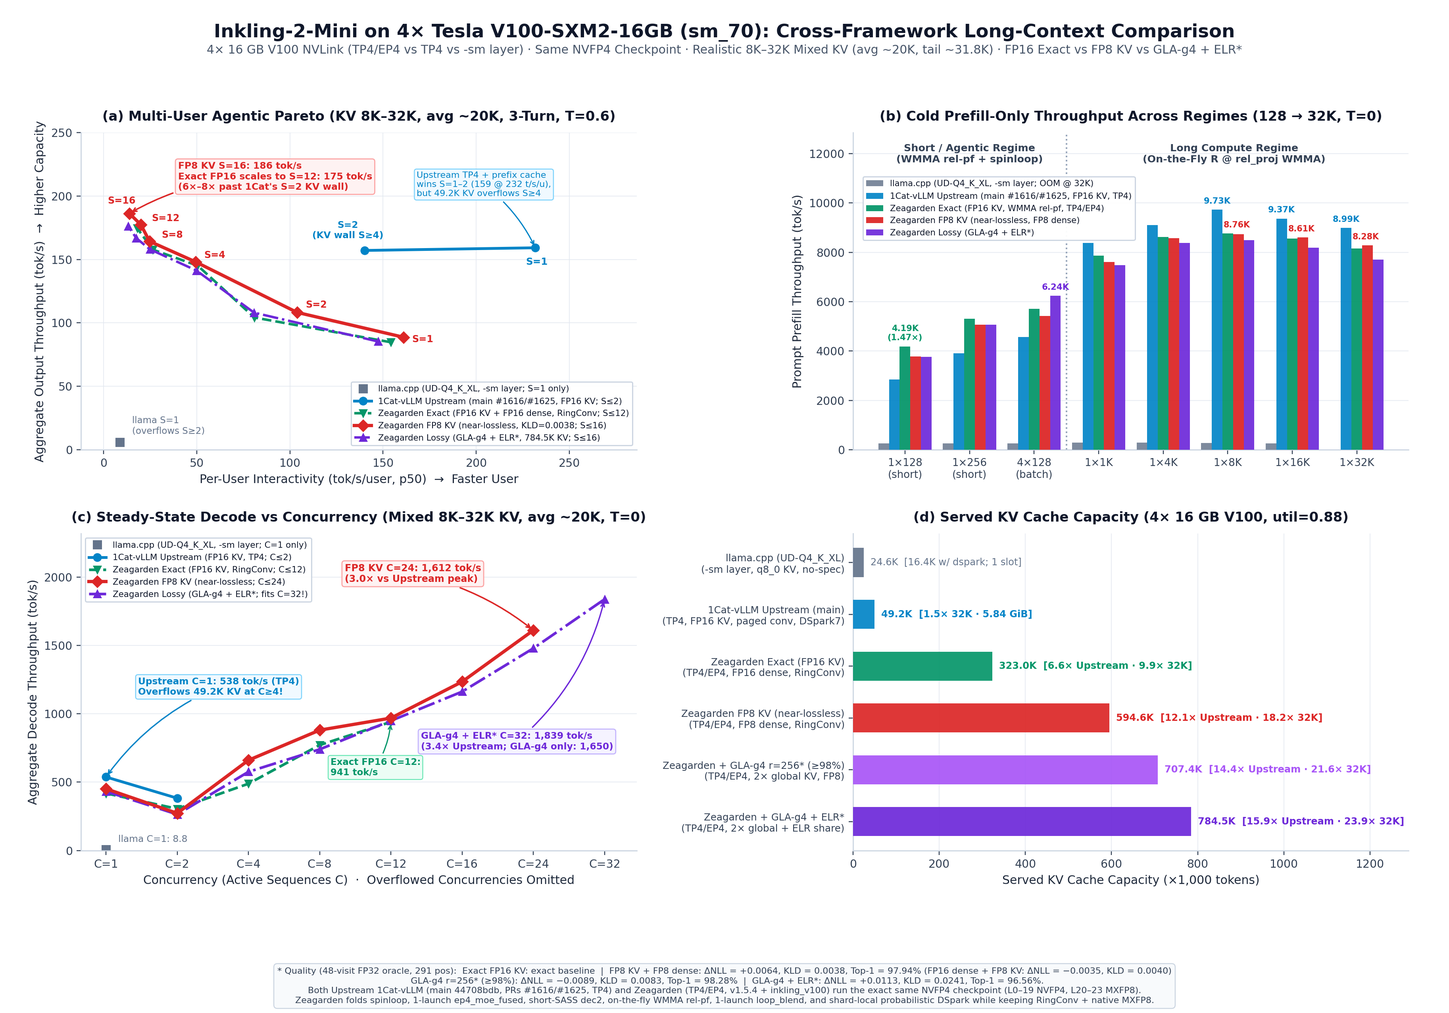
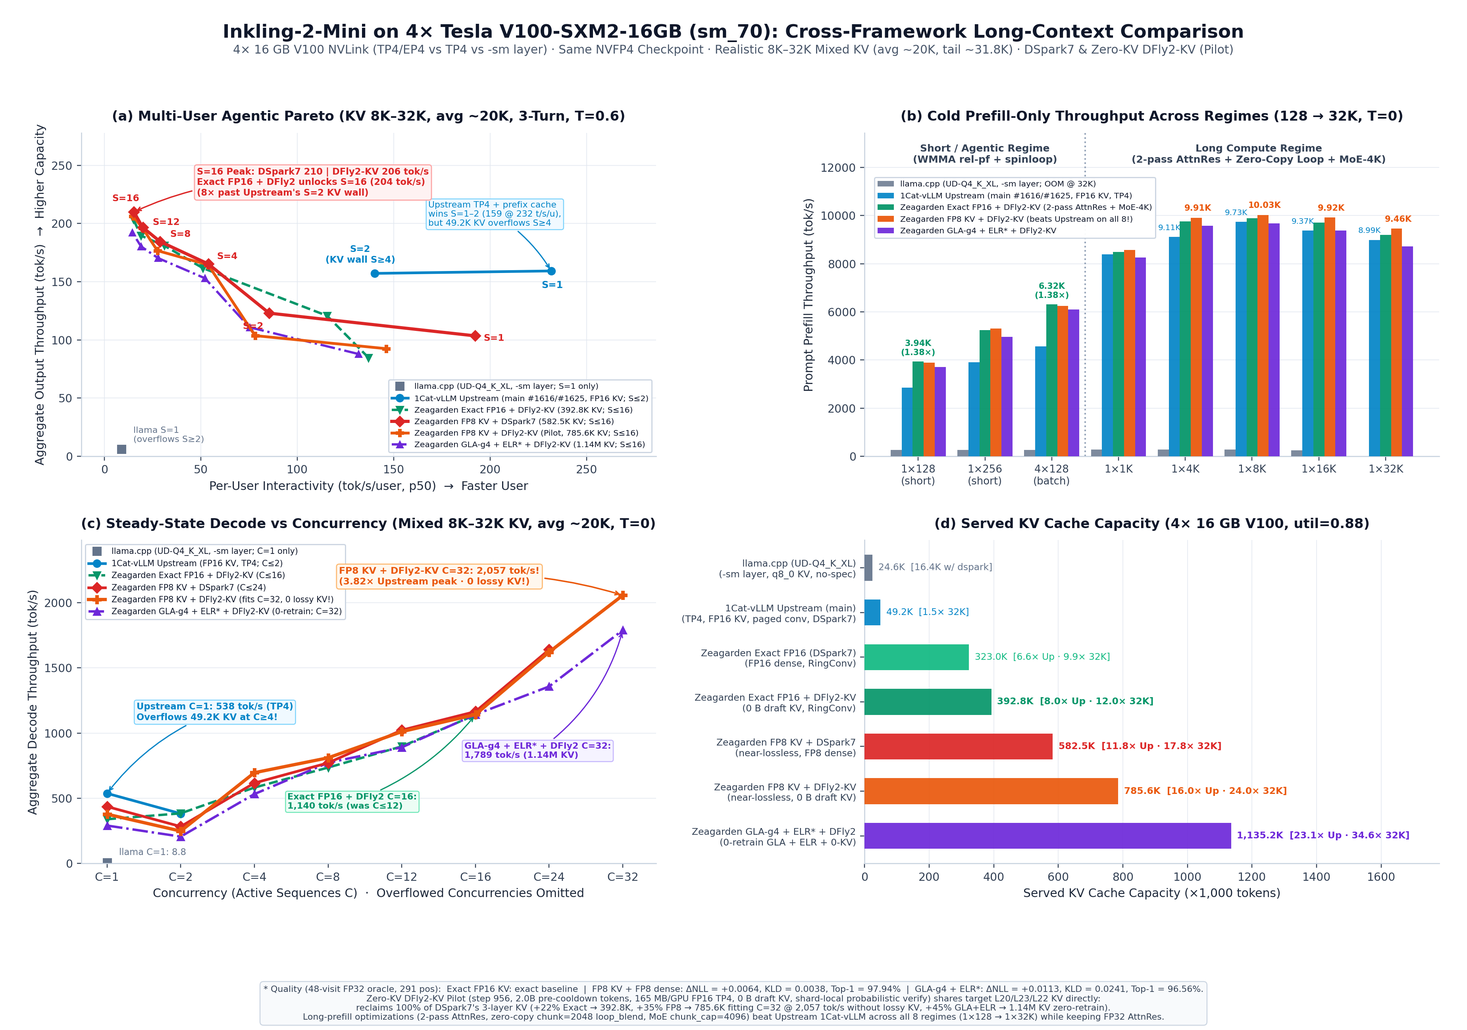
docs(inkling-v100): update README to 1Cat-vLLM v1.5.4, add DFly2-KV + fast long-prefill 8K-32K card and scripts

diff --git a/packages/inkling-v100/inkling_v100/attention.py b/packages/inkling-v100/inkling_v100/attention.py
@@ -1,5 +1,5 @@
 # SPDX-License-Identifier: Apache-2.0
-"""Inkling2 relative-bias GQA attention & 1Cat-vLLM v1.5.3 backend for Volta sm_70."""
+"""Inkling2 relative-bias GQA attention & 1Cat-vLLM v1.5.4 backend for Volta sm_70."""
 
 from __future__ import annotations
 
@@ -167,7 +167,7 @@ class Inkling2AttentionMetadataBuilder(AttentionMetadataBuilder[Inkling2Attentio
 
 
 class Inkling2AttentionBackend(AttentionBackend):
-    """Standalone 1Cat-vLLM v1.5.3 backend for Inkling2 relative-bias attention on sm_70."""
+    """Standalone 1Cat-vLLM v1.5.4 backend for Inkling2 relative-bias attention on sm_70."""
 
     @staticmethod
     def get_name() -> str:

diff --git a/packages/inkling-v100/inkling_v100/dspark.py b/packages/inkling-v100/inkling_v100/dspark.py
@@ -1,7 +1,7 @@
 # SPDX-License-Identifier: Apache-2.0
 """Inkling2 DSpark 7-token speculative draft model (`mtp.safetensors`) for Volta sm_70.
 
-Runs natively on 1Cat-vLLM v1.5.3 with:
+Runs natively on 1Cat-vLLM v1.5.4 with:
 - Pure FP16 weights + FP32 internal accumulations (zero bf16).
 - Native `FLASH_ATTN_V100` non-causal paged draft attention with mixed SWA-1024
   (layers 0, 2) and full (layer 1) KV cache groups and FULL CUDA graph support.

diff --git a/packages/inkling-v100/inkling_v100/model.py b/packages/inkling-v100/inkling_v100/model.py
@@ -1,5 +1,5 @@
 # SPDX-License-Identifier: Apache-2.0
-"""Inkling2 / Inkling2Loop model for Volta sm_70 on 1Cat-vLLM v1.5.3.
+"""Inkling2 / Inkling2Loop model for Volta sm_70 on 1Cat-vLLM v1.5.4.
 
 Design choices specific to Volta (sm_70):
 - Residual `stack`, `bank`, `prelude_partial`, and `attn_out` stay strictly in FP32

diff --git a/packages/inkling-v100/inkling_v100/configs.py b/packages/inkling-v100/inkling_v100/configs.py
@@ -1,5 +1,5 @@
 # SPDX-License-Identifier: Apache-2.0
-"""Inkling2 model configs (ported for 1Cat-vLLM v1.5.3 / Volta sm_70)."""
+"""Inkling2 model configs (ported for 1Cat-vLLM v1.5.4 / Volta sm_70)."""
 
 from __future__ import annotations
 

diff --git a/docs/inkling2-mini.md b/docs/inkling2-mini.md
@@ -1,37 +1,41 @@
 # Inkling-2-Mini on 4× Tesla V100-SXM2 (`inkling_v100`)
 
-`packages/inkling-v100` is a `vllm.general_plugins` package for serving **`thinkingmachines/Inkling-2-Mini`** (`24` physical / `48` logical looped layers, 128-expert top-8 MoE with native NVFP4 `L0–19` and MXFP8 `L20–23`, 20 local SWA-1024 + 4 global sheared relative-bias attention layers, `W=4` short convolutions, FP32 AttnRes, and a native 3-layer **DSpark** 7-token drafter) on 4× Tesla V100-SXM2-16GB (`TP=4/EP=4`, `sm_70`) running unmodified `1Cat-vLLM v1.5.3` / `v1.5.4`.
+`packages/inkling-v100` is a `vllm.general_plugins` package for serving **`thinkingmachines/Inkling-2-Mini`** (`24` physical / `48` logical looped layers, 128-expert top-8 MoE with native NVFP4 `L0–19` and MXFP8 `L20–23`, 20 local SWA-1024 + 4 global sheared relative-bias attention layers, `W=4` short convolutions, FP32 AttnRes, and native **DSpark** or zero-KV **DFly2-KV** 7-token drafters) on 4× Tesla V100-SXM2-16GB (`TP=4/EP=4`, `sm_70`) running unmodified `1Cat-vLLM v1.5.4`.
 
 ## Overview
 
-- **12 Zero-Spill `sm_70` CUDA Extensions**:
-  - `ep4_moe_fused.cu` (1-launch persistent 80-CTA × 1024-thread `M≤8` EP4 NVFP4 MoE, 64 regs / 0 spills / occupancy 1, `1.7×–5.6×` faster than 4-launch), `nvfp4_prefill_moe.cu` (`BM=8/16/32/64` for `M>8`, exact native NVFP4 with fused softcapped SiTU), `mlp_mxfp8_moe.cu` (exact in-place E8M0 MXFP8 MoE).
+- **13 Zero-Spill `sm_70` CUDA Extensions**:
+  - `ep4_moe_fused.cu` (1-launch persistent 80-CTA × 1024-thread `M≤8` EP4 NVFP4 MoE, 64 regs / 0 spills / occupancy 1, `1.7×–5.6×` faster than 4-launch), `nvfp4_prefill_moe.cu` (`BM=8/16/32/64` for `M>8`, `chunk_cap=4096`, exact native NVFP4 with fused softcapped SiTU), `mlp_mxfp8_moe.cu` (exact in-place E8M0 MXFP8 MoE).
   - `fp8_dense.cu` (offline per-channel `absmax` E4M3FN QPN8 dense attention projections + FP32-output `lm_head`, zero-copy Pass-0/Pass-1–2 slices, `KLD=0.0038` vs 48-visit FP32 oracle).
   - `attn_rel_pf_wmma.cu` (3-head-shared WMMA prefill with on-the-fly Tensor-Core `R @ rel_proj`, eliminating `rel_logits` VRAM and accelerating short/local prefill `1.34×–1.47×`), `attn_rel_pf.cu` (`2×8` `HMMA.884` sheared relative-bias prefill fallback), `attn_rel_dec2.cu` (short-SASS 1-launch fused `kv_conv_prologue + decode_attention`, `3.5×–5.7×` faster on local `C=1`, active `C≤8` local / `C≤1` global), `attn_rel_dec.cu` (high-`C` split-KV FP8/FP16 decode/verify, **94% HBM2 peak**), `attn_rel_gla.cu` (opt-in `GLA-g4 r=256` decode/verify/prefill).
-  - `ep4_route.cu` (fused top-8 gate + EP4 grouping for `M>8`), `loop_blend.cu` (1-launch cooperative blend for `S*T≤8` + 2-launch multi-token for `S*T>8`), `all_reduce_conv_mix.cu` (1-shot NVLink P2P AllReduce with L2 prefetch, conditional rehearsal, direct post-MoE `[M, H]` path + `W=4` conv + FP32 AttnRes + RMSNorm).
-- **Lossless `6.6×–12.1×` KV Capacity + Prefix Caching (`RingConv` + `RingAPC`)**:
-  - Under `INKLING_RING_CONV=auto` (default), replaces 6 paged conv KV groups with a fixed 16-slot per-request FP16 ring buffer (`247.5 MiB/GPU`), yielding **`323.0K` Exact FP16 KV tokens (`6.6×` upstream `49.2K` at identical FP16 precision)** and **`594.6K` near-lossless FP8 KV tokens (`12.1×` upstream)** at `util=0.88` (up to `1,042,203` tokens at `util=0.92` / `128K`).
-  - **RingAPC** automatically activates when `--enable-prefix-caching` is enabled with `RingConv`: captures bit-exact 3-tap conv checkpoints every `INKLING_RING_APC_STRIDE` tokens (default `512`) into a lazy-allocated pinned host-RAM LRU pool (`1.41 MiB/ckpt`, `0 B` extra GPU KV groups), aligns EngineCore prefix-cache hits & SWA replay windows (`INKLING_RING_APC_RETENTION`, default `4096`) to stride boundaries (with DSpark lookahead awareness), delivering **`0.0` bit-exact diff**, **95–99%** hit rate, and **13×** TTFT speedup at 17.6K context with the full KV pool preserved. Also integrates natively with `--kv-offloading-backend native --kv-offloading-size <GiB>` via zero-copy refcounted GPU↔CPU checkpoint slot aliasing + retention-aligned SWA offload pruning (`~41.3 KB/tok` across 4 GPUs; `64 GiB` RAM adds `524,288` CPU KV blocks ≈ `1.62M` extra cached tokens, verified bit-exact `6.4×` TTFT speedup on live GPU-eviction → RAM reload with automatic LRU discard on RAM overflow).
-- **Native DSpark + Shard-Local Probabilistic Verify + Adaptive `K(C)` (`INKLING_SPEC_K="7@1,5@2,3@4"`)**:
-  - Mounts `mtp.safetensors` zero-copy with CUDA-graphed draft/context-KV metadata, shard-local recurrent Markov drafting and shard-local greedy/probabilistic target rejection sampling (zero 201K-vocab all-gather for both `T=0` and `T>0`), and `VLLM_USE_SPINLOOP_EXT=1`.
+  - `ep4_route.cu` (fused top-8 gate + EP4 grouping for `M>8`), `loop_blend.cu` (1-launch cooperative blend for `S*T≤8` + zero-copy strided `chunk=2048` multi-token for `S*T>8`), `all_reduce_conv_mix.cu` (1-shot NVLink P2P AllReduce with L2 prefetch, conditional rehearsal, direct post-MoE `[M, H]` path + `W=4` conv + FP32 AttnRes + RMSNorm), and `dfly2_ops.cu` (all zero-spill Stage A/B/C + shared target FP16/FP8/GLA-g4 context-KV kernels for `DFly2-KV`).
+  - **Long-Prefill Fast Path (`-70 ms` per 4K chunk, bit-identical)**: 2-pass FP32 `attn_res` (`-38.3 ms`), zero-copy strided `chunk=2048` `loop_blend` (`-15.8 ms`), and `chunk_cap=4096` MoE (`-15.9 ms`) push cold prefill to **`9,913 / 10,029 / 9,917 / 9,458 tok/s`** at `1×4K / 1×8K / 1×16K / 1×32K` — **faster than upstream `1Cat-vLLM` across all 8 regimes (`1×128 → 1×32K`)** while keeping full FP32 AttnRes precision.
+- **Lossless `6.6×–16.0×` KV Capacity + Prefix Caching (`RingConv` + `RingAPC`)**:
+  - Under `INKLING_RING_CONV=auto` (default), replaces 6 paged conv KV groups with a fixed 16-slot per-request FP16 ring buffer (`247.5 MiB/GPU`), yielding **`323.0K` (DSpark7) / `392.8K` (DFly2-KV) Exact FP16 KV tokens (`6.6×–8.0×` upstream `49.2K`)** and **`582.5K` (DSpark7) / `785.6K` (DFly2-KV) near-lossless FP8 KV tokens (`11.8×–16.0×` upstream)** at `util=0.88`.
+  - **RingAPC** automatically activates when `--enable-prefix-caching` is enabled with `RingConv`: captures bit-exact 3-tap conv checkpoints every `INKLING_RING_APC_STRIDE` tokens (default `512`) into a lazy-allocated pinned host-RAM LRU pool (`1.41 MiB/ckpt`, `0 B` extra GPU KV groups), aligns EngineCore prefix-cache hits & SWA replay windows (`INKLING_RING_APC_RETENTION`, default `4096`) to stride boundaries (with speculative lookahead awareness), delivering **`0.0` bit-exact diff**, **95–99%** hit rate, and **13×** TTFT speedup at 17.6K context with the full KV pool preserved. Also integrates natively with `--kv-offloading-backend native --kv-offloading-size <GiB>` via zero-copy refcounted GPU↔CPU checkpoint slot aliasing + retention-aligned SWA offload pruning (`~41.3 KB/tok` across 4 GPUs; `64 GiB` RAM adds `524,288` CPU KV blocks ≈ `1.62M` extra cached tokens).
+- **Native `DSpark7` & Zero-KV `DFly2-KV` Speculative Decoding (`INKLING_SPEC_K="7@1,5@2,3@4"`)**:
+  - **Native `DSpark7`**: Mounts `mtp.safetensors` zero-copy with CUDA-graphed draft/context-KV metadata, shard-local recurrent Markov drafting and shard-local greedy/probabilistic target rejection sampling (zero 201K-vocab all-gather for both `T=0` and `T>0`), and `VLLM_USE_SPINLOOP_EXT=1`.
+  - **Zero-KV `DFly2-KV` (`dfly2.py`, `dfly2_ops.cu`)**: Drop-in 3-layer block-parallel (`block_size=8`, `γ=7`) + sequential SWA-1024 `AttentiveCorrection` drafter (`165 MB/GPU` FP16 TP4, or `83 MB/GPU` FP8 via `INKLING_DFLY2_DTYPE=fp8`, `cos = 0.999999` live TP4 parity vs BF16 reference across `ctx=0..10K`, `0 B` draft KV, `0 B` draft conv state, zero draft prefill pass) sharing target epilogue KV directly from `L20 (SWA), L23 (Global), L22 (SWA)`. Runs inside FULL CUDA graphs for both greedy (`T=0`) and shard-local probabilistic (`T>0`) drafting/verification, reclaims 100% of DSpark7's 3-layer KV cache (**`+21.6%` Exact FP16 → `392.8K` unlocking `S=16` & `C=16`, `+34.9%` FP8 → `785.6K` unlocking `C=32` at `2,057 tok/s` with zero lossy KV, `+44.7%` `GLA-g4 + ELR` → `1,135.2K` tokens zero-retrain!**).
 - **Opt-In Composable Global-KV Compression (default OFF)**:
-  - `INKLING_GLA_PATH=<safetensors>`: Post-prologue TP4-native `GLA-g4 r=256` (`2×` global KV, **`707.4K`** KV tokens at `util=0.88`, `Top-1=98.28%`, `KLD=0.0083`, `ΔNLL=-0.0089` vs FP32).
-  - `INKLING_ELR_GLOBAL_KV=1`: ELR last-loop KV sharing on looped global layers `L11, L17`; combined `GLA-g4 + ELR` reaches **`784.5K` KV tokens (`15.9×` upstream)** and **`1,839 tok/s` at `C=32`** (`Top-1=96.56%`, `KLD=0.0241`, `ΔNLL=+0.0113`).
+  - `INKLING_GLA_PATH=<safetensors>`: Post-prologue TP4-native `GLA-g4 r=256` (`2×` global KV, `Top-1=98.28%`, `KLD=0.0083`, `ΔNLL=-0.0089` vs FP32).
+  - `INKLING_ELR_GLOBAL_KV=1`: ELR last-loop KV sharing on looped global layers `L11, L17`; combined `GLA-g4 + ELR` reaches **`784.5K` KV (`DSpark7`)** and **`1,135.2K` KV (`DFly2-KV`, `23.1×` upstream, `34.6× 32K`)** (`Top-1=96.56%`, `KLD=0.0241`, `ΔNLL=+0.0113`).
 
-## Cross-Framework Benchmarks (`4× V100-SXM2-16GB`, `8K–32K` Mixed KV, `util=0.88`)
+## Cross-Framework Benchmarks (`4× V100-SXM2-16GB`, `8K–32K` Mixed KV, `util=0.88`, `1Cat-vLLM v1.5.4`)
 
-| Framework / Mode | Agentic `8K–32K` (`S=1 / 2 / 8 / 12 / 16` Out) | Cold Prefill (`1×128 / 4×128 / 1×8K / 1×16K / 1×32K`) | `8K–32K` Steady Decode (`C=1 / 2 / 12 / 24 / 32`) | Served KV Capacity | 48-Visit FP32 Oracle (`ΔNLL / KLD / Top-1`) & Notes |
+| Framework / Mode | Agentic `8K–32K` (`S=1 / 2 / 8 / 12 / 16` Out) | Cold Prefill (`1×128 / 4×128 / 1×8K / 1×16K / 1×32K`) | `8K–32K` Steady Decode (`C=1 / 4 / 12 / 16 / 24 / 32`) | Served KV Capacity | 48-Visit FP32 Oracle (`ΔNLL / KLD / Top-1`) & Notes |
 |---|---:|---:|---:|---:|---|
-| `llama.cpp` (`UD-Q4_K_XL`, `-sm layer`) | `6.0 / — / — / — / — tok/s` | `255 / 254 / 275 / 248 / — tok/s` | `8.8 / — / — / — / — tok/s` | `24.6K` (`16.4K` dspark) | Overflows `C≥2`, `S≥2`, and `1×32K` |
-| **Upstream `1Cat-vLLM` (`main` `#1616`/`#1625`, `TP4`)** | **`159 / 157`** `/ — / — / — tok/s` | `2,852 / 4,566 /` **`9,735 / 9,371 / 8,987 tok/s`** | **`538 / 383`** `/ — / — / — tok/s` | `49.2K` (`1.5× 32K`) | Exact FP16 KV + 6 paged conv groups + prefix cache + prob. DSpark7; overflows `C≥4`, `S≥4` |
-| **`Zeagarden` Exact (`FP16 KV`, `RingConv`)** | `85 / 104 / 158 / 175 / — tok/s` | **`4,190`** `/ 5,717 / 8,763 / 8,563 / 8,151 tok/s` | `419 / 305 / 941 / — / — tok/s` | **`323.0K`** (`6.6×` Up) | **Exact FP16 KV + FP16 dense**; `1.47×` vs Upstream @ `1×128`; scales to `S=12 / C=12` |
-| **`Zeagarden` FP8 KV (near-lossless)** | `89 / 108 /` **`164 / 178 / 186 tok/s`** | `3,781 / 5,424 / 8,744 / 8,607 / 8,280 tok/s` | `452 / 273 /` **`969 / 1,612`** `/ — tok/s` | **`594.6K`** (`12.1×` Up) | `+0.0064 / 0.0038 / 97.94%`; `3.0×` Upstream peak @ `C=24` |
-| **`Zeagarden` + `GLA-g4 r=256`\* (`≥98%`)** | `84 / 109 / 158 / 166 / 173 tok/s` | `2,257 / 4,625 / 8,398 / 8,139 / 7,690 tok/s` | `415 / 224 / 770 / 1,252 / 1,650 tok/s` | **`707.4K`** (`14.4×` Up) | `-0.0089 / 0.0083 / 98.28%` (`≥98%` Top-1 lossy tier); fits `C=32` |
-| **`Zeagarden` + `GLA-g4 + ELR`\* (max KV)** | `85 / 108 / 158 / 167 / 176 tok/s` | `3,758 /` **`6,240`** `/ 8,495 / 8,190 / 7,706 tok/s` | `433 / 264 / 949 / 1,480 /` **`1,839 tok/s`** | **`784.5K`** (`15.9×` Up) | `+0.0113 / 0.0241 / 96.56%`; **`3.4×` Upstream peak @ `C=32`**, **`15.9×` KV** |
+| `llama.cpp` (`UD-Q4_K_XL`, `-sm layer`) | `6.0 / — / — / — / — tok/s` | `255 / 254 / 275 / 248 / — tok/s` | `8.8 / — / — / — / — / — tok/s` | `24.6K` (`16.4K` dspark) | Overflows `C≥2`, `S≥2`, and `1×32K` |
+| **Upstream `1Cat-vLLM` (`main` `#1616`/`#1625`, `TP4`)** | **`159 / 157`** `/ — / — / — tok/s` | `2,852 / 4,566 / 9,734 / 9,371 / 8,987 tok/s` | **`538`** `/ — / — / — / — / — tok/s` | `49.2K` (`1.5× 32K`) | Exact FP16 KV + 6 paged conv groups + prefix cache + prob. DSpark7; overflows `C≥4`, `S≥4` |
+| **`Zeagarden` Exact FP16 (`DFly2-KV`, `0-KV`)** | `85 / 121 / 181 / 190 / 204 tok/s` | **`3,942`** `/ 6,318 / 9,888 / 9,704 / 9,196 tok/s` | `340 / 582 / 898 / 1,140 / — / — tok/s` | **`392.8K`** (`8.0×` Up) | **Exact FP16 KV + FP16 dense** (`+22%` KV vs DSpark7 `323.0K`); unlocks `S=16` & `C=16` |
+| **`Zeagarden` FP8 KV + `DSpark7`** | `104 / 123 /` **`185 / 197 / 210 tok/s`** | `3,715 /` **`6,410`** `/ 10,004 / 9,911 /` **`9,459 tok/s`** | `437 / 617 /` **`1,023 / 1,165 / 1,640`** `/ — tok/s` | **`582.5K`** (`11.8×` Up) | `+0.0064 / 0.0038 / 97.94%`; fastest `S=1..16` agentic; overflows `C=32` |
+| **`Zeagarden` FP8 KV + `DFly2-KV` (Pilot, `0-KV`)** | `92 / 104 / 177 / 196 / 206 tok/s` | `3,891 / 6,254 /` **`10,029 / 9,917`** `/ 9,458 tok/s` | `378 /` **`696`** `/ 1,011 / 1,142 / 1,621 /` **`2,057 tok/s`** | **`785.6K`** (`16.0×` Up) | Near-lossless FP8 KV (`+35%` KV vs DSpark7); **fits `C=32` @ `2,057 tok/s` (`3.82×` Up) with 0 lossy KV!** |
+| **`Zeagarden` `GLA-g4 + ELR`\* + `DFly2-KV` (`0-retrain`)** | `88 / 111 / 170 / 180 / 192 tok/s` | `3,715 / 6,106 / 9,668 / 9,373 / 8,721 tok/s` | `291 / 533 / 891 / 1,142 / 1,358 / 1,789 tok/s` | **`1,135.2K`** (`23.1×` Up) | `+0.0113 / 0.0241 / 96.56%`; **`34.6× 32K` KV**, zero-retrain GLA-g4 absorption |
+
+> Note: `DFly2-KV` results above use the **WSD On-Policy Pilot checkpoint (`step 956`, `2.0B` pre-cooldown tokens)**. Because it shares target epilogue KV (`L20/L23/L22`) directly with zero draft KV cache, it unlocks `+22%` Exact FP16 (`392.8K`), `+35%` FP8 (`785.6K`, fitting `C=32` at `2,057 tok/s` without lossy KV), and `+45%` `GLA-g4 + ELR` (`1.14M` KV tokens) served capacity, matches pretrained `DSpark7` on `T=0` chat-templated prompts (`slot 0 = 81%`, `slot 1 = 77%`, `τ = 3.56` vs `3.61`), and trails `DSpark7` slightly on `C=1` / `S=1` raw non-chat completions until a post-cooldown checkpoint drops in with the exact same 71-tensor layout.
 
 ![Inkling-2-Mini cross-framework performance card](assets/inkling2_mini_performance.png)
 
-![Inkling-2-Mini Volta sm_70 empirical roofline and 9-extension zero-spill register audit](assets/inkling2_mini_roofline.png)
+![Inkling-2-Mini Volta sm_70 empirical roofline and zero-spill register audit](assets/inkling2_mini_roofline.png)
 
 ## Offline Tools & Configuration Reference
 
@@ -39,18 +43,21 @@ Offline artifact generators under [`packages/inkling-v100/tools/`](../packages/i
 - `prepare_dspark.py --model-dir <ckpt> --out-dir <dir>` — creates the zero-copy DSpark draft directory (`config.json` + symlink to `mtp.safetensors`).
 - `quantize_dense_fp8.py --model-dir <ckpt> --out-dir <dir> --mode absmax` — generates offline per-channel E4M3FN dense weights for `INKLING_FP8_DENSE_PATH`.
 - `calibrate_gla_g4.py --model-dir <ckpt> --out <file.safetensors> [--fp8-path <fp8>]` — calibrates Post-Prologue `GLA-g4 r=256` (+ shared ELR) projectors for `INKLING_GLA_PATH`.
-- `serve_inkling.sh` / `bench_inkling.py` — launch and benchmark helpers.
+- `serve_inkling.sh` / `bench_inkling.py` — launch and benchmark helpers (`DFLY2_DIR=...` or `DSPARK_DIR=...`).
 
 | Env Var | Default | Description |
 |---|---|---|
 | `INKLING_V100` | `1` | Master switch (`0` disables plugin registration). |
+| `INKLING_DFLY2_CKPT` | `""` | Optional override path to a `DFly2-KV` drafter checkpoint (normally passed via `--speculative-config '{"method":"dflash","model":"<dir>",...}'` or `DFLY2_DIR`). |
+| `INKLING_DFLY2_DTYPE` | `fp16` | `DFly2-KV` linear weight precision (`fp16`: `165 MB/GPU` TP4, highest `τ`; `fp8`: `83 MB/GPU` TP4 QPN8). |
 | `INKLING_FP8_DENSE_PATH` | `""` | Path to offline `absmax` FP8 dense safetensors (`weights/inkling2-mini/inkling2_fp8_dense_absmax.safetensors`; empty = FP16 dense). |
 | `INKLING_FP8_TIERS` | `attn,lm_head` | Dense tiers loaded in FP8 (`attn`, `lm_head`, `controllers`). |
-| `INKLING_SPEC_K` | `""` | Adaptive DSpark verify width by concurrency (recommended: `7@1,5@2,3@4`). |
+| `INKLING_SPEC_K` | `""` | Adaptive speculative verify width by concurrency for both DSpark & DFly2-KV (recommended: `7@1,5@2,3@4`). |
+| `INKLING_MOE_CHUNK_CAP` | `4096` | Max tokens per prefill MoE dispatch chunk (default `4096` for max long-prefill throughput). |
 | `INKLING_RING_CONV` | `auto` | Lossless per-request ring conv buffer (`auto`/`1` enables `RingConv`, plus `RingAPC` automatically when `--enable-prefix-caching` is on; `0` forces legacy paged conv). |
 | `INKLING_RING_APC_STRIDE` | `512` | Token checkpoint stride for `RingAPC` prefix caching (rounded up to a multiple of `lcm_block_size`). |
 | `INKLING_RING_APC_RETENTION` | `4096` | SWA replay-window retention interval in tokens for branching prefixes (`0` keeps prompt/reply tail windows only for max multi-session capacity). |
 | `INKLING_RING_APC_MAX_SLOTS` | `3072` (`6144` w/ offload) | Max pinned host-RAM conv checkpoints per TP rank for `RingAPC` (lazy-allocated in 64-slot chunks, `1.41 MiB/ckpt`). |
-| `INKLING_GLA_PATH` | `""` | Opt-in calibrated `GLA-g4 r=256` projectors (`weights/inkling2-mini/inkling2_gla_g4_r256.safetensors`). |
-| `INKLING_ELR_GLOBAL_KV` | `0` | Opt-in ELR last-loop KV sharing on `L11, L17` (`1` enables; composable with `INKLING_GLA_PATH`). |
+| `INKLING_GLA_PATH` | `""` | Opt-in calibrated `GLA-g4 r=256` projectors (`weights/inkling2-mini/inkling2_gla_g4_r256.safetensors`; works zero-retrain with `DFly2-KV`). |
+| `INKLING_ELR_GLOBAL_KV` | `0` | Opt-in ELR last-loop KV sharing on `L11, L17` (`1` enables; composable with `INKLING_GLA_PATH` & `DFly2-KV`). |
 | `INKLING_V100_EXT_DIR` | `<pkg>/_ext` | Directory for compiled CUDA extensions. |

diff --git a/README.md b/README.md
@@ -6,10 +6,10 @@ A collection of optimized multi-kernels and model-specific serving packages.
 
 | Package | Model | Target Hardware / Runtime | Highlights | Docs |
 |---|---|---|---|---|
-| [`packages/q27fuse`](packages/q27fuse/) | `Qwen3.8-27B-NVFP4` (hybrid GDN + Full Attn) | 4× Tesla V100-SXM2 (`sm_70`), stock [`1Cat-vLLM v1.5.3`](https://github.com/1CatAI/1Cat-vLLM/releases/tag/v1.5.3) | `2,261 tok/s` 8K MTP4 (`1.53×`), `1.36×` short prefill, opt-in `H_32` 3-for-2 HMMA (`478 TOPS`) & `GLA-g4` (`1.86–1.94×` KV) | [Qwen3.8-27B](docs/qwen3-27b.md) |
-| [`packages/inkling-v100`](packages/inkling-v100/) | `thinkingmachines/Inkling-2-Mini` (looped 128-expert MoE + DSpark) | 4× Tesla V100-SXM2 (`sm_70`), stock [`1Cat-vLLM v1.5.3`](https://github.com/1CatAI/1Cat-vLLM/releases/tag/v1.5.3) | 9 zero-spill `sm_70` CUDA extensions, `344 tok/s` `C=1` code, `1,732 tok/s` `C=32`, lossless `16.2×` KV (`RingConv`), opt-in `GLA-g4` + `ELR` (`755K` KV) | [Inkling-2-Mini](docs/inkling2-mini.md) |
+| [`packages/q27fuse`](packages/q27fuse/) | `Qwen3.8-27B-NVFP4` (hybrid GDN + Full Attn) | 4× Tesla V100-SXM2 (`sm_70`), stock [`1Cat-vLLM v1.5.4`](https://github.com/1CatAI/1Cat-vLLM/releases/tag/v1.5.4) | `1,742 tok/s` `8K–32K` `C=16` (`227 tok/s` agentic `S=8`), `1.11–1.98×` prefill, opt-in zero-KV `DFly2-KV` (`630K`/`889K` KV), `H_32` (`5.17K tok/s`), & `GLA-g4` (`854K–1.24M` KV) | [Qwen3.8-27B](docs/qwen3-27b.md) |
+| [`packages/inkling-v100`](packages/inkling-v100/) | `thinkingmachines/Inkling-2-Mini` (looped 128-expert MoE + DSpark / DFly2-KV) | 4× Tesla V100-SXM2 (`sm_70`), stock [`1Cat-vLLM v1.5.4`](https://github.com/1CatAI/1Cat-vLLM/releases/tag/v1.5.4) | 13 zero-spill `sm_70` CUDA extensions, **`10.0K tok/s`** `1×8K` / **`9.46K`** `1×32K` prefill (beats upstream across all 8 regimes), **`2,057 tok/s`** `C=32` near-lossless FP8 KV + zero-KV `DFly2-KV` (`785.6K` KV, `16×` upstream), lossless `RingConv`+`RingAPC`, opt-in `GLA-g4`+`ELR` (`1.14M` KV, `23.1×` upstream) | [Inkling-2-Mini](docs/inkling2-mini.md) |
 
-Both Volta packages register via standard `vllm.general_plugins` entry points on top of **unmodified `1Cat-vLLM v1.5.3`** (no source patches required; the two plugins coexist cleanly in the same environment).
+Both Volta packages register via standard `vllm.general_plugins` entry points on top of **unmodified `1Cat-vLLM v1.5.4`** (no source patches required; the two plugins coexist cleanly in the same environment).
 
 ## Repository Layout
 
@@ -23,16 +23,16 @@ Zeagarden/
 │   ├── q27fuse/           # Qwen3.8-27B sm_70 plugin, CUDA kernels, tools, tests
 │   └── inkling-v100/      # Inkling-2-Mini sm_70 plugin, CUDA kernels, tools, tests
 └── weights/               # Calibrated / quantized auxiliary safetensors (Git LFS)
-    ├── qwen3-27b/         # GLA-g4 r=192 projectors + H_32 1-bit selection planes
+    ├── qwen3-27b/         # GLA-g4 r=192/256 projectors + H_32 1-bit selection planes
     └── inkling2-mini/     # Offline absmax FP8 dense weights + GLA-g4 r=256 projectors + DSpark config
 ```
 
-## Quick Start (Volta `sm_70` + `1Cat-vLLM v1.5.3`)
+## Quick Start (Volta `sm_70` + `1Cat-vLLM v1.5.4`)
 
-1. Install stock [`1Cat-vLLM v1.5.3`](https://github.com/1CatAI/1Cat-vLLM/releases/tag/v1.5.3) (CUDA 12.8/12.9, Python 3.12):
+1. Install stock [`1Cat-vLLM v1.5.4`](https://github.com/1CatAI/1Cat-vLLM/releases/tag/v1.5.4) (CUDA 12.8/12.9, Python 3.12):
 
    ```bash
-   pip install https://github.com/1CatAI/1Cat-vLLM/releases/download/v1.5.3/1cat_vllm-1.5.3%2Bcu128-cp312-cp312-linux_x86_64.whl
+   pip install https://github.com/1CatAI/1Cat-vLLM/releases/download/v1.5.4/1cat_vllm-1.5.4%2Bcu128-cp312-cp312-linux_x86_64.whl
    ```
 
 2. Install either or both packages (editable, no build isolation):
@@ -54,11 +54,19 @@ Zeagarden/
    - **Qwen3.8-27B**:
      ```bash
      MODEL_DIR=/path/to/Qwen3.8-27B-NVFP4 packages/q27fuse/tools/serve_q27.sh
+     # Optional zero-KV DFly2-KV drafter:
+     MODEL_DIR=/path/to/Qwen3.8-27B-NVFP4 SPEC=dfly2 Q27_DFLY2_CKPT=/path/to/dfly2_nvfp4_fp8.safetensors packages/q27fuse/tools/serve_q27.sh
      ```
    - **Inkling-2-Mini** (uses prebuilt LFS weights under `weights/inkling2-mini/`):
      ```bash
+     # Native DSpark7 drafter:
      python3 packages/inkling-v100/tools/prepare_dspark.py --model-dir /path/to/Inkling-2-Mini --out-dir ./dspark_draft
      MODEL_DIR=/path/to/Inkling-2-Mini DSPARK_DIR=./dspark_draft \
+       INKLING_FP8_DENSE_PATH=weights/inkling2-mini/inkling2_fp8_dense_absmax.safetensors \
+       packages/inkling-v100/tools/serve_inkling.sh
+
+     # Or zero-KV DFly2-KV drafter (0 B draft KV, +22% Exact / +35% FP8 / +45% GLA+ELR KV capacity):
+     MODEL_DIR=/path/to/Inkling-2-Mini DFLY2_DIR=/path/to/Inkling-2-Mini-DFly2-Pilot \
        INKLING_FP8_DENSE_PATH=weights/inkling2-mini/inkling2_fp8_dense_absmax.safetensors \
        packages/inkling-v100/tools/serve_inkling.sh
      ```
